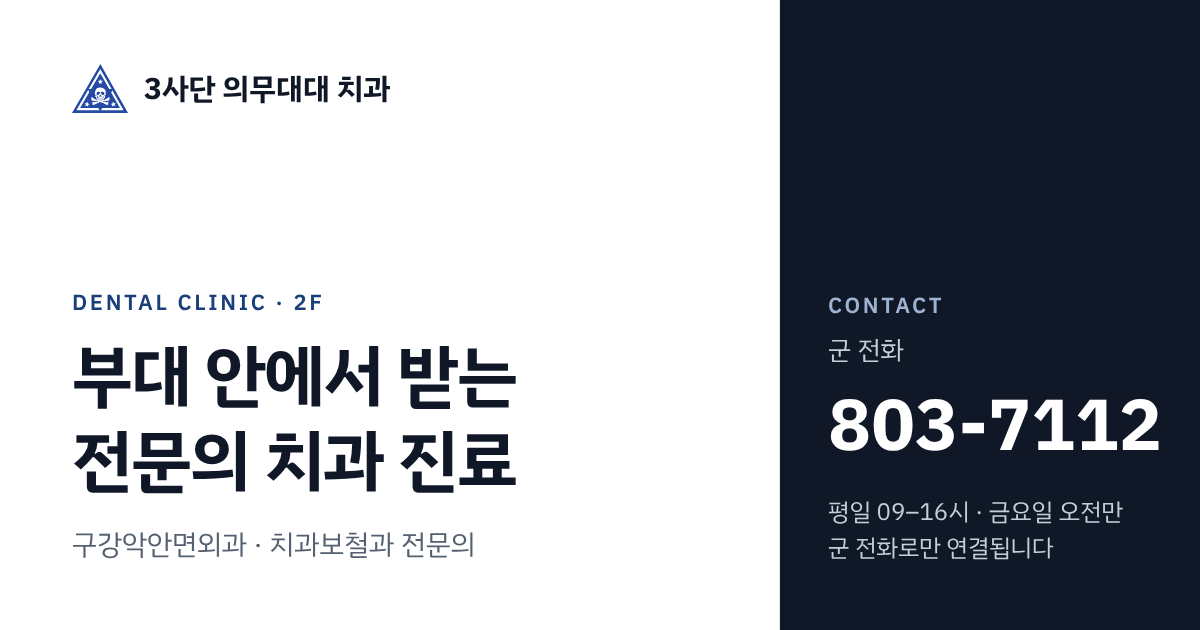
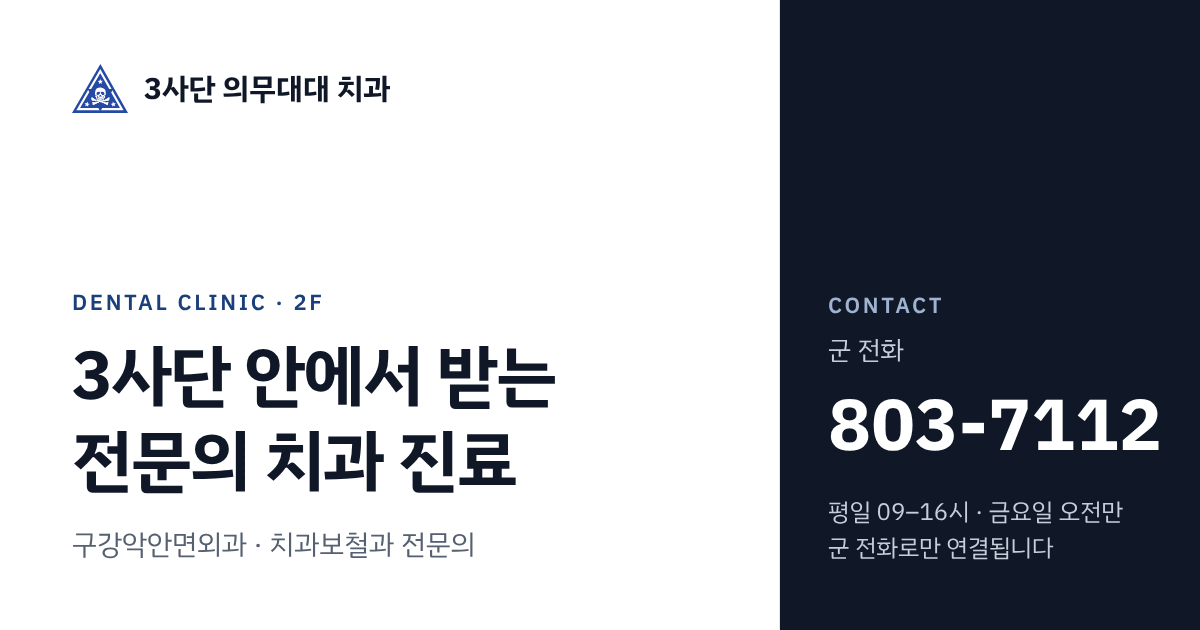
'부대 안'을 '3사단 안'으로 변경 (홈, 케이스북, 미리보기 그림)
Claude-Session: https://claude.ai/code/session_01R7kTzuw7UYxby8XWCzNtGf

Changed region(s): [[0.0617, 0.5429, 0.4625, 0.6635]]

diff --git a/cases.html b/cases.html
@@ -222,8 +222,8 @@
     <p class="eb">Why here</p>
     <h2 class="block-title" id="why-title">여기서 받으면</h2>
     <ul class="why">
-      <li><b>예약이 빠릅니다.</b> 부대 안이라 외진 날짜를 기다리지 않고 진료를 시작할 수 있습니다. 아픈 걸 몇 주씩 참지 않아도 됩니다.</li>
-      <li><b>외진으로 하루를 빼지 않아도 됩니다.</b> 부대 안에서 30분~1시간이면 끝납니다.</li>
+      <li><b>예약이 빠릅니다.</b> 3사단 안이라 외진 날짜를 기다리지 않고 진료를 시작할 수 있습니다. 아픈 걸 몇 주씩 참지 않아도 됩니다.</li>
+      <li><b>외진으로 하루를 빼지 않아도 됩니다.</b> 3사단 안에서 30분~1시간이면 끝납니다.</li>
       <li><b>같은 의사가 처음부터 끝까지</b> 진단, 치료, 경과를 봅니다.</li>
     </ul>
     <div class="softbox"><b>이럴 땐 국군병원으로 바로 의뢰합니다</b><p>임플란트, 틀니, 교정, 전신마취가 필요한 수술. 이 치료는 국군병원이 맞는 곳이라 진단 후 소견서를 써 드립니다.</p></div>

diff --git a/index.html b/index.html
@@ -58,8 +58,8 @@
 <main class="page" id="main">
   <section class="intro" aria-labelledby="page-title">
     <p class="eb eb--accent">Dental clinic · 2F</p>
-    <h1 id="page-title">부대 안에서 받는<br>전문의 치과 진료</h1>
-    <p class="lead">인턴 1년, 레지던트 3년의 수련을 마친 구강악안면외과·치과보철과 전문의가 직접 진료합니다. 예약은 빠르게, 외진 없이 부대 안에서 끝냅니다.</p>
+    <h1 id="page-title">3사단 안에서 받는<br>전문의 치과 진료</h1>
+    <p class="lead">인턴 1년, 레지던트 3년의 수련을 마친 구강악안면외과·치과보철과 전문의가 직접 진료합니다. 예약은 빠르게, 외진 없이 3사단 안에서 끝냅니다.</p>
   </section>
 
   <section class="today" aria-label="오늘 진료">
